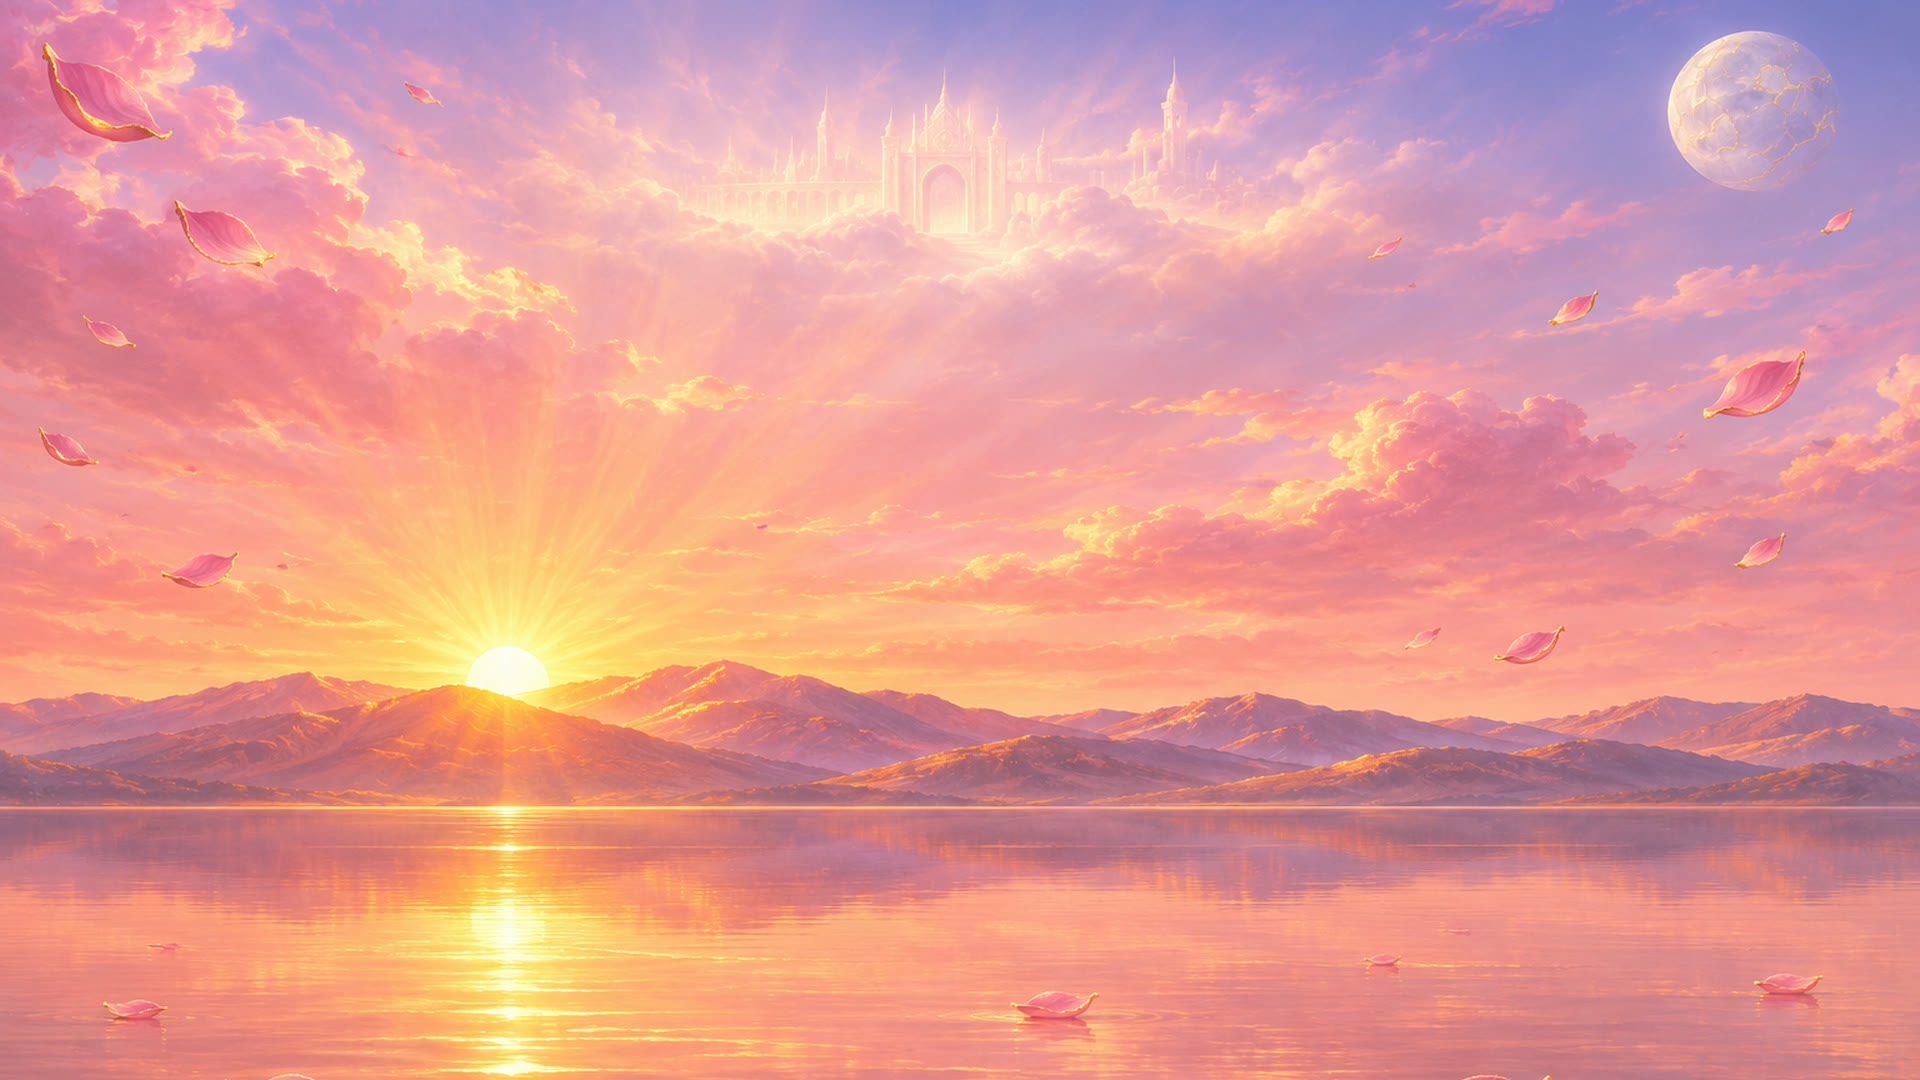
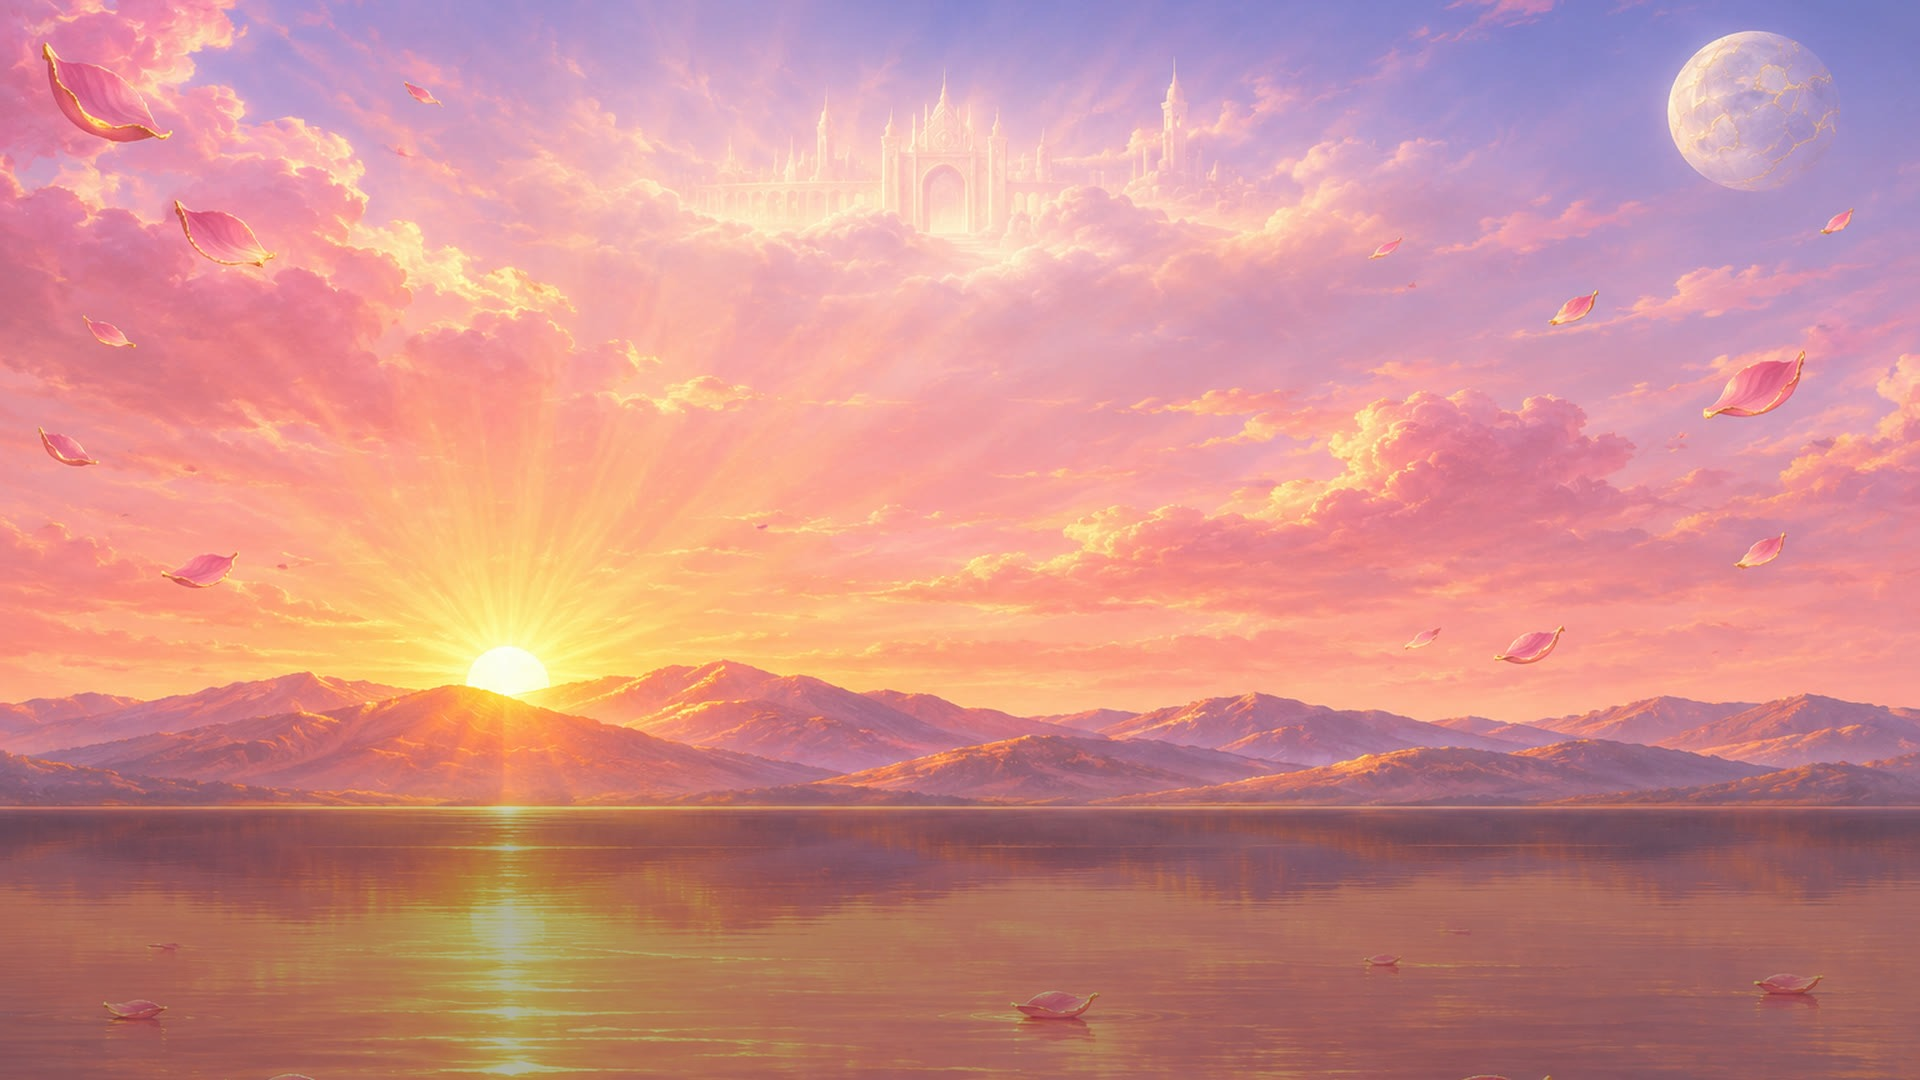
Song 03 final review: child glides, cooler smaller hands, distinct prayer scene, darker dawn lake
The child glides up and right while it gathers (x 0.15 to 0.27, y 0.22 to 0.32) and dissolves as soon as the
gather ends. Mother's hands are lavender white with fold lines kept (less fill), height 0.20, slightly off
centre. prayer_mirror regraded darker and cooler with the aurora down to a faint band and the column dimmed
behind the words, seen closer. rose_dawn water 30 percent darker, calm_gain 0.25. Plain fade into scene 2.

Claude-Session: https://claude.ai/code/session_01DSHsMeB7ain7qg3RYXYMEW

Changed region(s): [[0.0, 0.7333, 1.0, 1.0]]

diff --git a/engine/songs/s03_lake_of_memory.py b/engine/songs/s03_lake_of_memory.py
@@ -141,12 +141,13 @@ from track import Track   # the shared Track refuses keys that are not strictly 
 # Promo v2, round 3 (Anthony: a clip of the real backdrop, people of light rare and always moving).
 # Five painted scenes (assets/plates/s03/), the song's own effects, the words:
 #   1  0 to 10    The storm stands still (frozen_rain_lanterns): raindrops hang in the air, gold on the left and
-#                 cold blue glass on the right. A child of light gathers on the shore for a moment (2 to 4.6) and
-#                 its light flies up to the middle of the sky.
+#                 cold blue glass on the right. A child of light glides up and right along the shore while it
+#                 gathers (2.0 to 3.8) and its light flies at once up to the middle of the sky.
 #   2  8 to 23    Her warm hands (aurora_hands_night): violet aurora, sky lanterns, mirror lake. "Her warm hands"
 #                 rises out of the lake; then Mother's cupped hands of light (with sleeves) gather under the
 #                 words, lift gently and drift away as light (12.9 to 18.2).
-#   3  20 to 41   Her prayer (prayer_mirror): one column of light from the horizon into the sky, a mirror lake.
+#   3  20 to 41   Her prayer (prayer_mirror, regraded darker and cooler, aurora only a faint band, closer view):
+#                 one column of light from the horizon into the sky, a mirror lake.
 #                 No people: the column, the light and the full words carry ENCOURAGEMENT (about 7 s solid),
 #                 then the words fly to light 7 (flare and a new ring).
 #   4  39 to 50   The mended moon (mended_moon_predawn): the upper sky breaks into glass and drifts back
@@ -209,18 +210,18 @@ SCENES = [
          zoom=(1.12, 1.05), pan=((-0.02, 0.0), (0.0, 0.0)), water=True, water_line=0.25, gain=0.95,
          water_strength=0.5, calm_gain=0.25),
     dict(image="assets/plates/s03/aurora_hands_night.jpg", t0=8.0, t1=23.5, fade_in=2.5, fade_out=3.0,
-         transition="dissolve", zoom=(1.03, 1.14), pan=((0.0, 0.0), (0.0, 0.02)), water=True, water_line=0.31,
+         transition="fade", zoom=(1.03, 1.14), pan=((0.0, 0.0), (0.0, 0.02)), water=True, water_line=0.31,
          water_strength=0.5, calm_gain=0.4,
          gain=Track([(0, 1.0), (10.0, 0.88), (17.5, 0.88), (20.0, 1.0)])),
     dict(image="assets/plates/s03/prayer_mirror.jpg", t0=20.5, t1=41.5, fade_in=3.0, fade_out=2.5,
-         transition="bloom", flash=0.15, zoom=(1.14, 1.04), water=True, water_line=0.305, water_strength=0.5,
+         transition="bloom", flash=0.15, zoom=(1.20, 1.12), water=True, water_line=0.29, water_strength=0.5,
          calm_gain=0.4,
          gain=Track([(0, 1.0), (25.0, 1.0), (27.0, 0.85), (38.0, 0.85), (40.0, 1.0)])),
     dict(image="assets/plates/s03/mended_moon_predawn.jpg", t0=39.0, t1=49.5, fade_in=2.5, fade_out=2.5,
          transition="fade", zoom=(1.04, 1.10), pan=((0.0, -0.02), (0.0, 0.0)),
          water=True, water_line=0.34, water_strength=0.5, calm_gain=0.25, gain=Track([(0, 1.0), (40.0, 0.90), (46.0, 0.90), (48.0, 1.0)])),
     dict(image="assets/plates/s03/rose_dawn.jpg", t0=47.0, t1=61.0, fade_in=2.5, fade_out=0.0,
-         transition="fade", zoom=(1.10, 1.03), water=True, water_line=0.255, water_strength=0.5, calm_gain=0.4,
+         transition="fade", zoom=(1.10, 1.03), water=True, water_line=0.255, water_strength=0.5, calm_gain=0.25,
          gain=Track([(0, 1.0), (48.0, 0.92), (50.5, 0.64), (TOTAL, 0.64)])),
 ]
 
@@ -260,21 +261,21 @@ TITLE = dict(label="Healing Concert", lines=["The Words of Mother’s Love"], si
 _SF = "assets/song_figures/s03/"
 FIGURES = [
     # the child huddled in the storm: gathers, and at once its light flies up to where Her hands will appear
-    dict(poses=[_SF + "child_sitting.png"], t0=2.0, gather=2.0, t1=4.6, x=(0.19, 0.22), y=(0.25, 0.27),
-         move=(2.0, 4.6), height=0.20, dissolve=3.0, to=(0.5, 0.45), color="#ffd8b0", glow=0.9, particles=7000),
+    dict(poses=[_SF + "child_sitting.png"], t0=2.0, gather=1.6, t1=3.8, x=(0.15, 0.27), y=(0.22, 0.32),
+         move=(2.0, 3.8), height=0.20, dissolve=3.0, to=(0.5, 0.45), color="#ffd8b0", glow=0.9, particles=7000),
     # Mother's hands (cupped, with sleeves that fade into the sky): one pose only, they gather under the resting
     # words once "Her warm hands" has risen, lift gently and drift away as light (about 5 s on screen)
-    dict(poses=[_SF + "mother_hands_cupped.png"], t0=12.9, gather=1.4, t1=16.4, x=0.5, y=(0.37, 0.42),
-         move=(12.9, 18.2), height=(0.27, 0.25), dissolve=1.8, leave="drift", color="#ffc9b8",
+    dict(poses=[_SF + "mother_hands_cupped.png"], t0=12.9, gather=1.4, t1=16.4, x=(0.55, 0.57), y=(0.40, 0.46),
+         move=(12.9, 18.2), height=(0.20, 0.19), dissolve=1.8, leave="drift", color="#dcdcff",
          glow=0.6, particles=8000),
 ]
 
 # Short lyric fragments (never on screen with an expression). Times are estimates from the studio recording.
 FRAGMENTS = [
-    # rises out of the lake (short time in the water), then rests above Her hands
+    # rises out of the lake (short time in the water), then rests; Mother's hands gather below it after it rises
     dict(text="Her warm hands", t0=10.4, t1=13.0, out=16.0, dy=0.11, size=88, glow="#ffb468",
          style="reflection", line=0.31),
-    # below the moon, beside the standing child
+    # below the mended moon
     dict(text="courage to go on", t0=40.2, t1=42.8, out=45.8, dy=-0.12, size=84, glow="#ffc070", style="write"),
 ]
 
